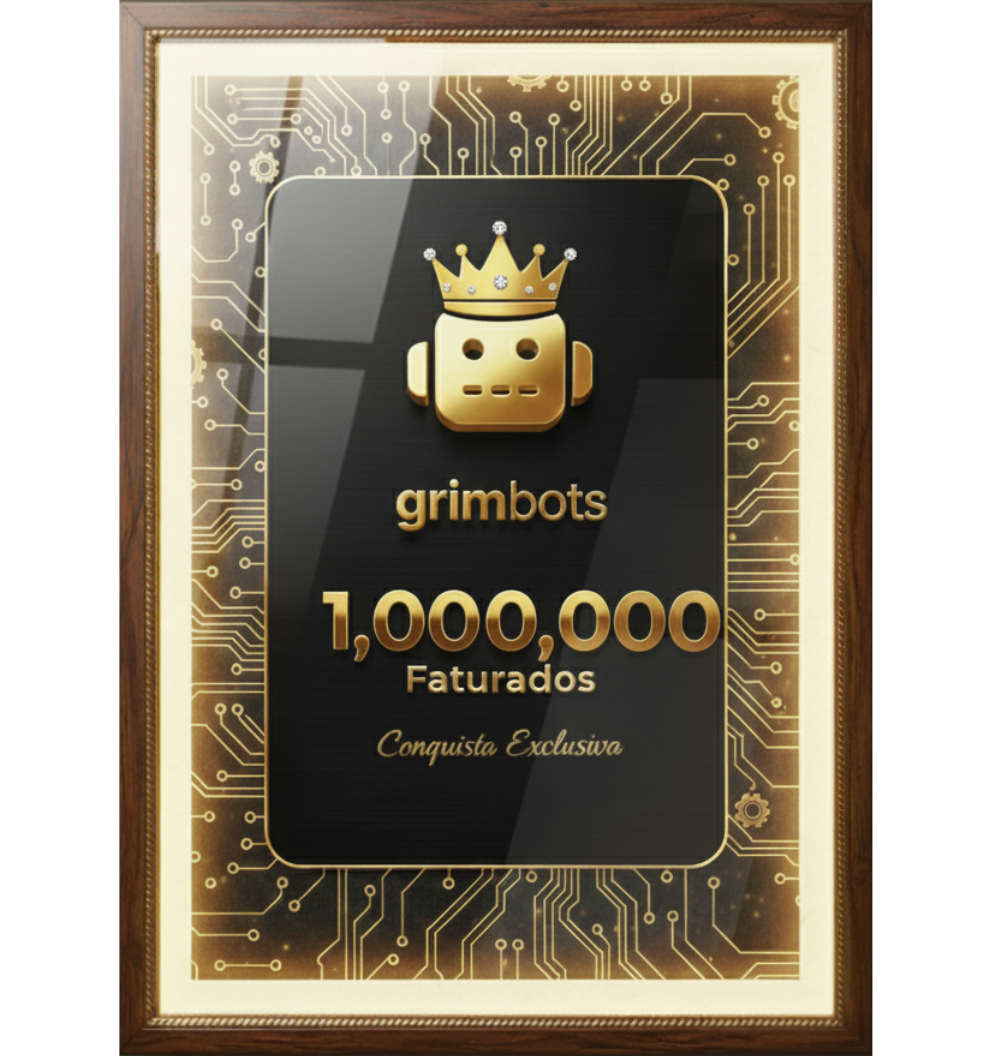
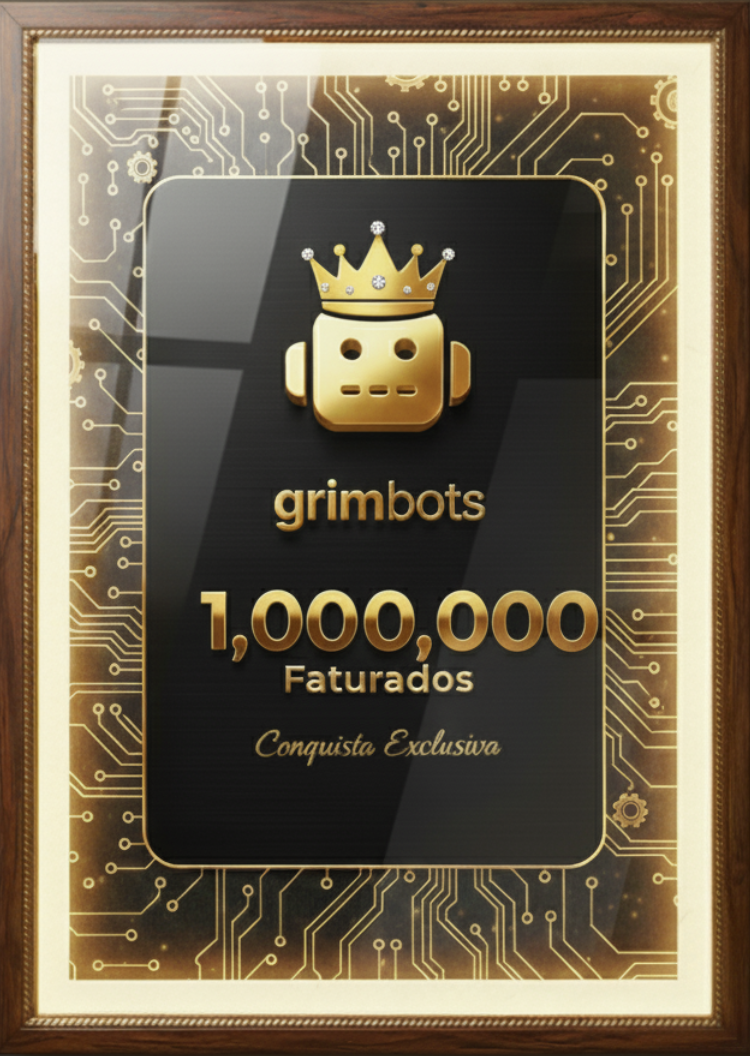
fix: update ranking template and image handling
- Modified the ranking template to enhance the layout of award images, ensuring they are centered and properly sized.
- Adjusted the CSS styles for award images to maintain consistent dimensions and improve visual presentation.
- Updated the binary image file for better quality representation in the ranking feature.

diff --git a/templates/ranking.html b/templates/ranking.html
@@ -521,11 +521,11 @@
                     
                     <!-- Imagem da Placa -->
                     <div class="p-6 relative z-0">
-                        <div class="text-center mb-4">
+                        <div class="text-center mb-4 flex items-center justify-center" style="height: 220px;">
                             <img src="{{ url_for('static', filename='img/' + award.image) }}" 
                                  alt="Placa {{ award.name }}"
-                                 class="mx-auto w-full max-w-[200px] h-auto {% if not award.is_unlocked %}grayscale opacity-30{% endif %}"
-                                 style="{% if award.is_unlocked %}filter: drop-shadow(0 0 20px rgba(255, 184, 0, 0.6));{% endif %}">
+                                 class="mx-auto {% if not award.is_unlocked %}grayscale opacity-30{% endif %}"
+                                 style="width: 200px; height: 200px; object-fit: contain; {% if award.is_unlocked %}filter: drop-shadow(0 0 20px rgba(255, 184, 0, 0.6));{% endif %}">
                         </div>
                         
                         <!-- Nome da Premiação -->
